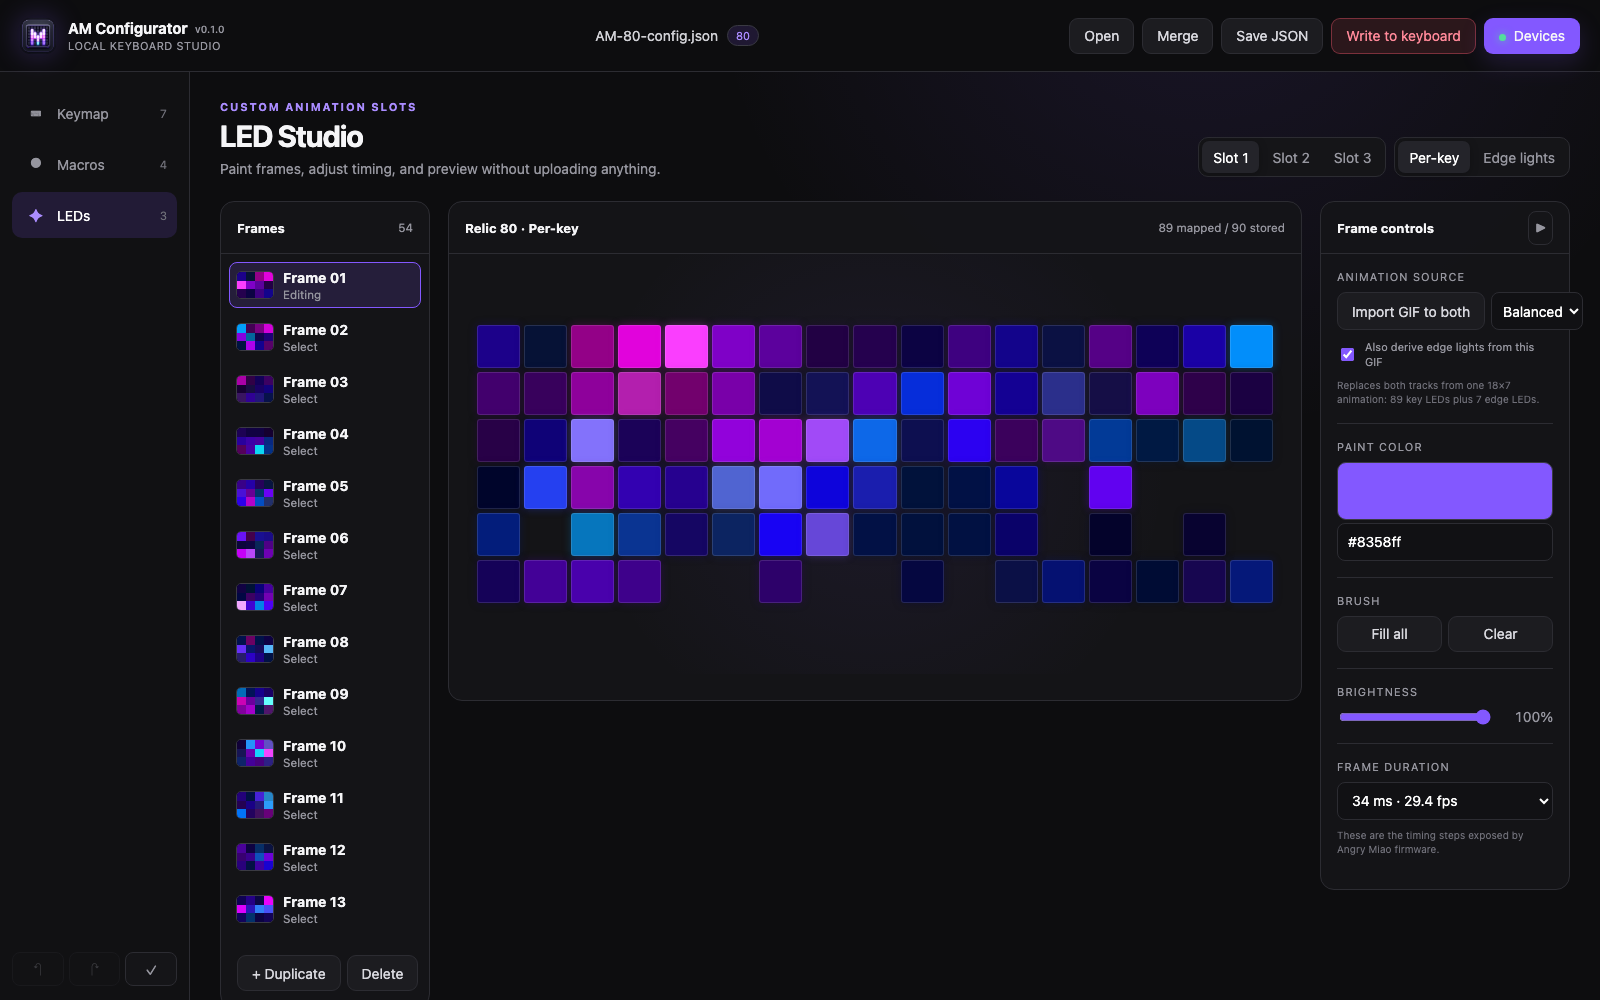
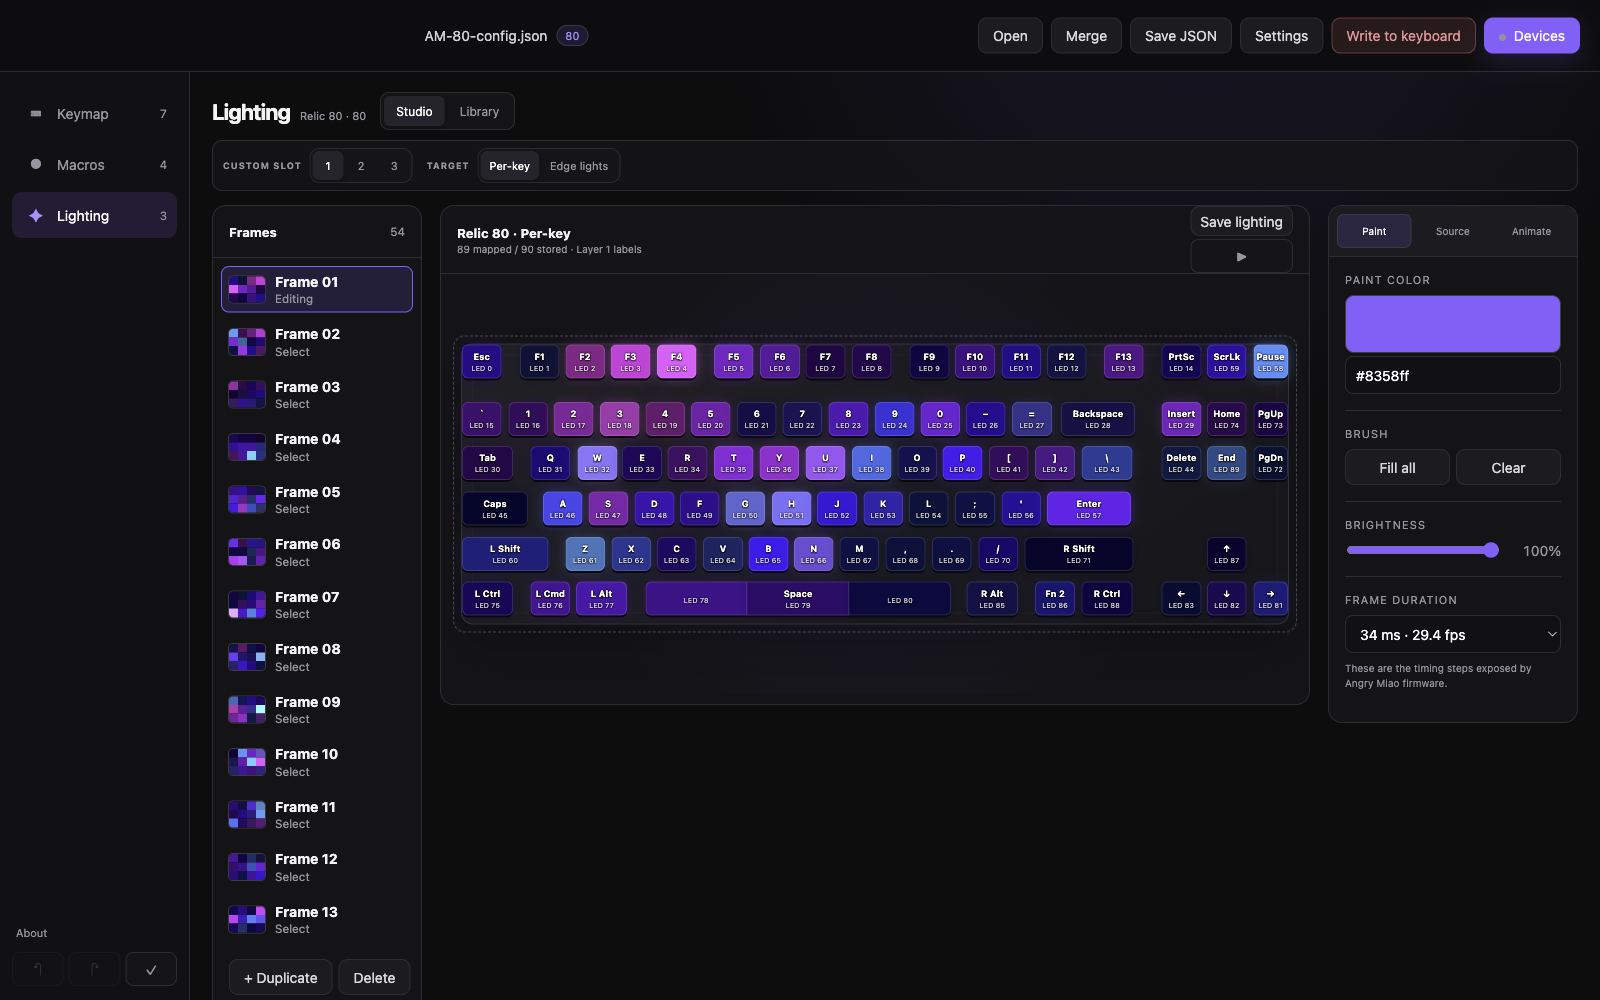
docs: refresh release screenshots

diff --git a/tests/test_packaging.py b/tests/test_packaging.py
@@ -680,6 +680,23 @@ class ReleaseInfoTests(unittest.TestCase):
         self.assertIn('<img src="/icon.png" alt="">', html)
         self.assertNotIn('class="brand-mark"', html)
 
+    def test_public_screenshots_are_release_sized_and_metadata_free(self) -> None:
+        readme = (ROOT / "README.md").read_text(encoding="utf-8")
+        expected = {
+            "keymap.png": (1600, 1000),
+            "macros.png": (1600, 1000),
+            "led-studio.png": (1600, 1000),
+        }
+        for filename, dimensions in expected.items():
+            with self.subTest(filename=filename):
+                path = ROOT / "docs" / "images" / filename
+                with Image.open(path) as screenshot:
+                    self.assertEqual("PNG", screenshot.format)
+                    self.assertEqual("RGB", screenshot.mode)
+                    self.assertEqual(dimensions, screenshot.size)
+                    self.assertEqual({}, screenshot.info)
+                self.assertEqual(1, readme.count(f"docs/images/{filename}"))
+
     def test_native_bundle_ships_project_license_and_attribution(self) -> None:
         spec = (ROOT / "packaging" / "am_configurator.spec").read_text(encoding="utf-8")
 

diff --git a/.agents/state.md b/.agents/state.md
@@ -355,8 +355,15 @@
   its inspector stacked, forcing an internal page-width clip in narrow windows.
   The responsive grid and keyboard canvas now release that desktop minimum; its
   focused guard was red-proven, and live 720px inspection shows zero document or
-  main-workspace horizontal overflow. Push, hardware write, release publication,
-  and Reddit posting retain their explicit gates.
+  main-workspace horizontal overflow. The README's Keymap, macro, and Lighting
+  images are now fresh 1600×1000 captures from isolated public fixtures; the
+  macro image uses a generated `Hello, world!` example and the Lighting image
+  visibly labels all three Relic spacebar LEDs. Metadata was stripped, its guard
+  was red-proven, and full-resolution inspection found no private state. Live
+  wide/narrow acceptance also confirmed unconditional Keymap reload, the quiet
+  About dialog with `0.1.34`, zero document/main overflow, and no console
+  warnings or exceptions. Push, hardware write, release publication, and Reddit
+  posting retain their explicit gates.
 
 ## Blockers
 

diff --git a/README.md b/README.md
@@ -67,7 +67,7 @@ Multi-LED keys remain individually labelled and editable. The same Studio maps
 the CyberBoard's 40×5 display, AFA body lights, Relic 80 per-key and edge
 tracks, and the Neon 80 axial and top-display targets.
 
-![Relic 80 LED Studio with animation frames and timing controls](docs/images/led-studio.png)
+![Relic 80 Lighting Studio with individually labelled spacebar LEDs, animation frames, and timing controls](docs/images/led-studio.png)
 
 Import GIF, PNG, and BMP media, then pan, zoom, or stretch it inside the
 destination overlay before applying it. GIF timing is resampled across the
